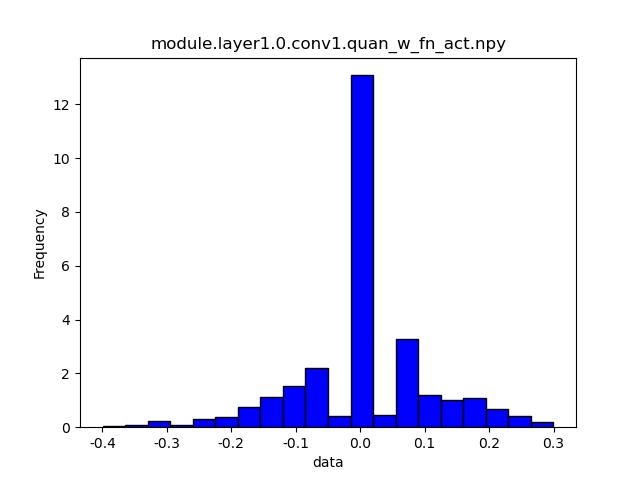
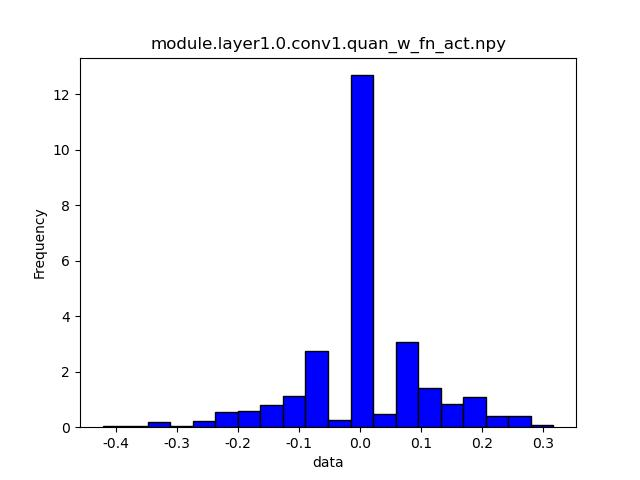
update histogram files

diff --git a/visualize.py b/visualize.py
@@ -12,7 +12,7 @@ import os
 matplotlib.rcParams['axes.unicode_minus']=False     # 正常显示负号
 
 
-dir_path = 'w4a4'
+dir_path = 'w2a2'
 
 files= os.listdir(dir_path) #得到文件夹下的所有文件名称
 for file in files:
